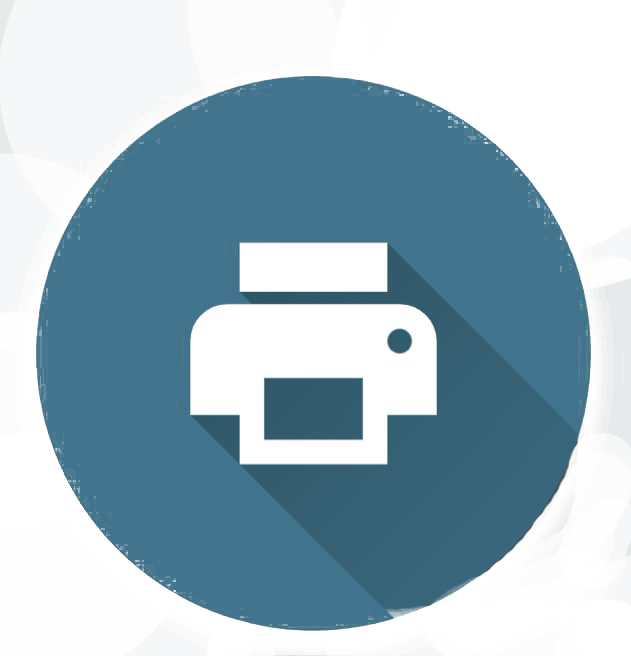
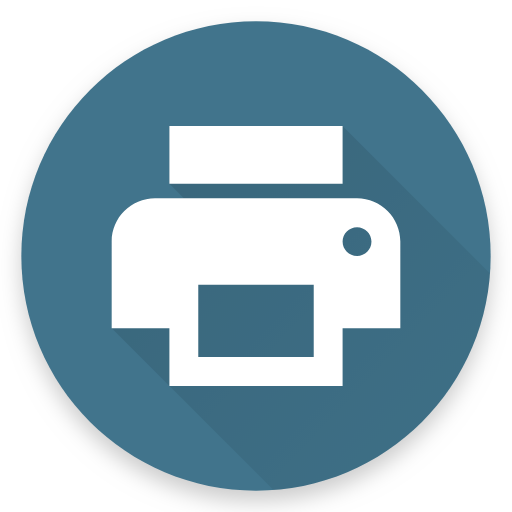
Cambios en la Home.

diff --git a/client/src/App/_Index/Home.js b/client/src/App/_Index/Home.js
@@ -44,8 +44,8 @@ export default class Home extends React.Component {
               >
                 <div className="uk-navbar-left">
                   <div className="uk-navbar-item">
-                    <a className="uk-logo" href="">
-                      <img src="img/cover-logo.svg" alt="Logo" />
+                    <a className="uk-logo" href="#">
+                      <img src="../../assets/prin.png" alt="Logo" width="100" />
                     </a>
                   </div>
                 </div>
@@ -61,12 +61,12 @@ export default class Home extends React.Component {
               className="uk-heading-primary animate uk-invisible"
               style={{ fontWeight: "700" }}
             >
-              Sleek, Fast and Reliable.
+              Imprime donde quieras, Recoge cuando gustes
             </h1>
             <div className="uk-width-4-5@m uk-margin-auto animate uk-invisible">
               <p className="lead">
-                Lorem ipsum dolor sit amet, consectetur adipisicing elit. A ad,
-                reiciendis maxime, facilis nam natus incidunt provident.
+                La mejor forma de encargar tus impresiones a tu tienda preferida y 
+                recogerlas cuando quieras. ¡Evita las filas y únete ahora!
               </p>
             </div>
             <div

diff --git a/client/public/index.html b/client/public/index.html
@@ -4,10 +4,10 @@
     <meta charset="utf-8" />
     <link rel="shortcut icon" href="%PUBLIC_URL%/favicon.ico" />
     <meta name="viewport" content="width=device-width, initial-scale=1" />
-    <meta name="theme-color" content="#000000" />
+    <meta name="theme-color" content="#41748C" />
     <meta
       name="description"
-      content="Web site created using create-react-app"
+      content="Printear - ¡La mejor forma de encomendar tus impresiones para recoger después!"
     />
     <link rel="apple-touch-icon" href="logo192.png" />
     <link rel="manifest" href="%PUBLIC_URL%/manifest.json" />
